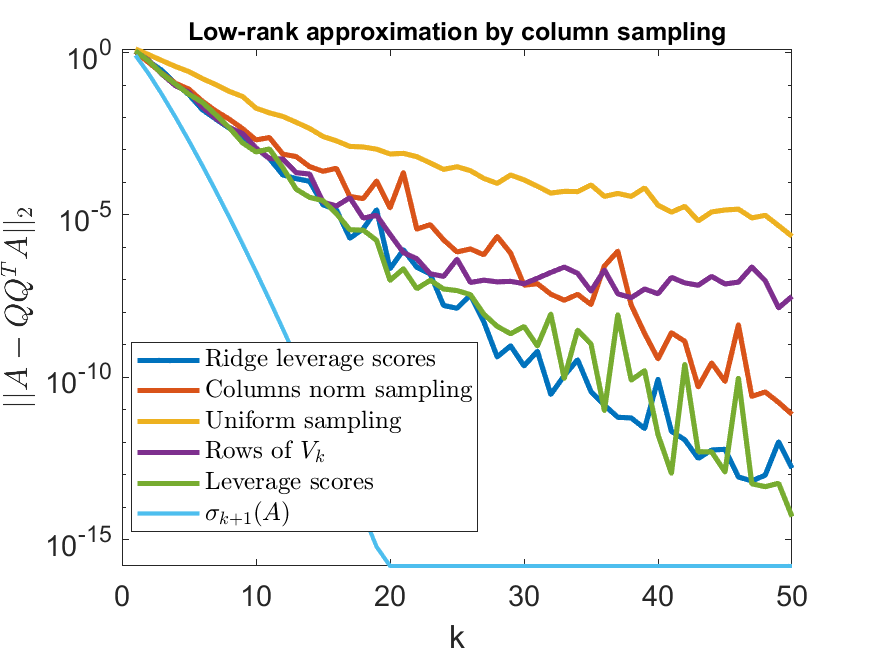
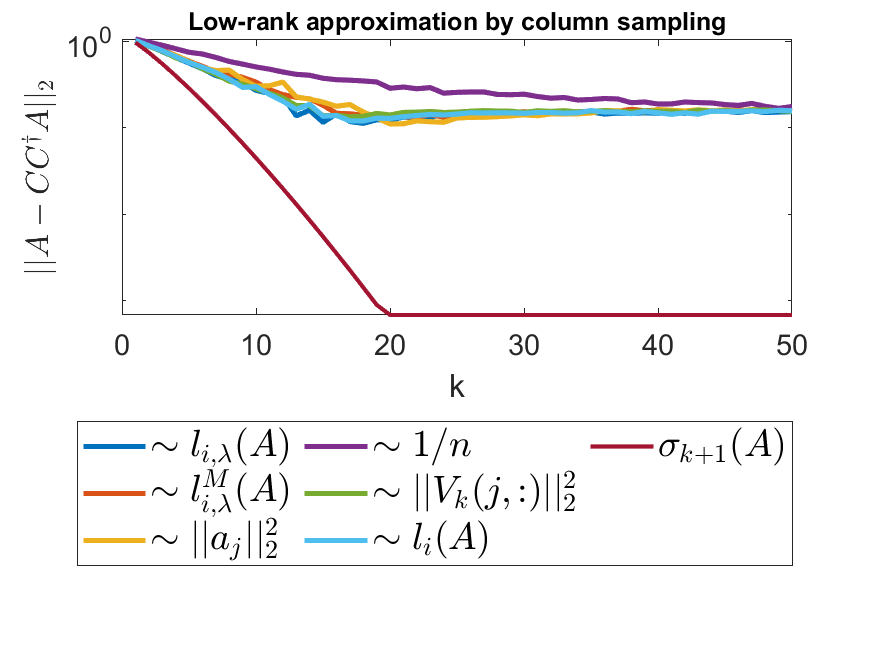
Code updates

diff --git a/run.m b/run.m
@@ -14,162 +14,81 @@ lambda = 1e-4;
 gold_standards = diag(S);
 ranks = 50;
 
-%% leverage scores
-errors_leverage = zeros(num_avg, ranks);  % initialize errors vector
-errors_leverage_pseudo= zeros(num_avg, ranks);
+%% compute sampling probabilities
 
-% initialize scores
+% initialize classical leverage scores
 leverage_scores = zeros(n, 1);
 for k=1:n
    leverage_scores(k) = A(:, k)' * pinv(A*A') * A(:, k);
 end
 leverage_scores = leverage_scores / sum(leverage_scores);
 
-% average over multiple runs
-for i=1:num_avg
-    % ranks from 1, ..., 50
-    for j=1:ranks
-       C = zeros(n, j);
-       for l=1:j
-           p = sampling(leverage_scores);  % sample from distribution
-           C(:, l) = A(:, p) / sqrt(j * leverage_scores(p));  % take column and rescale to have unbiased estimate
-       end
-       [Uc, ~, ~] = svd(C, "econ");  % economy SVD of C
-       Q1 = Uc(:, 1:j);  % take left principal subspace
-       errors_leverage(i, j) = norm(A-Q1*Q1'*A, 2);  % compute error in 2-norm
-       errors_leverage_pseudo(i, j) = norm(A-C*pinv(C)*A, 2);
-    end
-end
-
-mean_errors_leverage = mean(errors_leverage);
-mean_errors_leverage_pseudo = mean(errors_leverage_pseudo);
-std_errors_leverage = std(errors_leverage) / sqrt(num_avg);
-std_errors_leverage_pseudo = std(errors_leverage_pseudo) / sqrt(num_avg);
-
-%% ridge leverage scores
-errors_ridge = zeros(num_avg, ranks);  % initialize errors vector
-errors_ridge_pseudo= zeros(num_avg, ranks);
-
-% initialize scores
+% initialize ridge leverage scores (true, not estimates from random subset)
 ridge_scores = zeros(n, 1);
 for k=1:n
    ridge_scores(k) = V(k, :) * diag(diag(S).^2 ./ (diag(S).^2 + lambda^2)) * V(k, :)';
 end
 ridge_scores = ridge_scores / sum(ridge_scores);
 
-% average over multiple runs
-for i=1:num_avg
-    % ranks from 1, ..., 50
-    for j=1:ranks
-       C = zeros(n, j);
-       for l=1:j
-           p = sampling(ridge_scores);  % sample from distribution
-           C(:, l) = A(:, p) / sqrt(j * ridge_scores(p));  % take column and rescale to have unbiased estimate
-       end
-       [Uc, ~, ~] = svd(C, "econ");  % economy SVD of C
-       Q1 = Uc(:, 1:j);  % take left principal subspace
-       errors_ridge(i, j) = norm(A-Q1*Q1'*A, 2);  % compute error in 2-norm
-       errors_ridge_pseudo(i, j) = norm(A-C*pinv(C)*A, 2);
-    end
+% initialize upper estimates for ridge leverage scores
+range = randsample(n, n/2);
+M = A(:, range);
+estimated_ridge_scores = zeros(n, 1);
+for k=1:n
+   estimated_ridge_scores(k) = A(:, k)' * pinv(M * M' + lambda.^2 * eye(n)) * A(:, k);
 end
+estimated_ridge_scores = estimated_ridge_scores / sum(estimated_ridge_scores);
 
-mean_errors_ridge = mean(errors_ridge);
-mean_errors_ridge_pseudo = mean(errors_ridge_pseudo);
-std_errors_ridge = std(errors_ridge) / sqrt(num_avg);
-std_errors_ridge_pseudo = std(errors_ridge_pseudo) / sqrt(num_avg);
-
-%% uniform sampling
-errors_uniform = zeros(num_avg, ranks);  % initialize errors vector
-errors_uniform_pseudo = zeros(num_avg, ranks);  
-
-% initialize scores
+% initialize uniform scores
 uniform_scores = 1/n * ones(n, 1);
 
-% average over multiple runs
-for i=1:num_avg
-    % ranks from 1, ..., 50
-    for j=1:ranks
-       C = zeros(n, 1);
-       for l=1:j
-           p = sampling(uniform_scores);  % sample from distribution 
-           C(:, l) = A(:, p) / sqrt(j * uniform_scores(p));  % take column and rescale to have unbiased estimate
-       end
-       [Uc, ~, ~] = svd(C, "econ");  % economy SVD of C
-       Q1 = Uc(:, 1:j);  % take left principal subspace
-       errors_uniform(i, j) = norm(A-Q1*Q1'*A, 2);  % compute error in 2-norm
-       errors_uniform_pseudo(i, j) = norm(A-C*pinv(C)*A, 2);
-    end
-end
-
-mean_errors_uniform = mean(errors_uniform);
-mean_errors_uniform_pseudo = mean(errors_uniform_pseudo);
-std_errors_uniform = std(errors_uniform) / sqrt(num_avg);
-std_errors_uniform_pseudo = std(errors_uniform_pseudo) / sqrt(num_avg);
-
-
-%% sample proportionally to the norm of the columns of A
-errors_columns = zeros(num_avg, ranks);  % initialize errors vector
-errors_columns_pseudo = zeros(num_avg, ranks);
-
-% initialize scores
+% initialize column scores
 columns_scores = zeros(n, 1);
 for k=1:n
    column_scores(k) = (norm(A(:, k)) / norm(A, "fro"))^2;
 end
 
+%% true classical leverage scores
+% initialize errors vectors for all sampling probabilities
+errors_leverage = zeros(num_avg, ranks);
+errors_ridge = zeros(num_avg, ranks);
+errors_ridge_estimates = zeros(num_avg, ranks); 
+errors_uniform = zeros(num_avg, ranks);
+errors_columns = zeros(num_avg, ranks);
+errors_row = zeros(num_avg, ranks);
+
 % average over multiple runs
 for i=1:num_avg
     % ranks from 1, ..., 50
     for j=1:ranks
-       C = zeros(n, j);
-       for l=1:j
-           p = sampling(column_scores);  % sample from distribution
-           C(:, l) = A(:, p) / sqrt(j * column_scores(p));  % take column and rescale to have unbiased estimate
-       end
-       [Uc, ~, ~] = svd(C, "econ");  % economy SVD of C
-       Q1 = Uc(:, 1:j);  % take left principal subspace
-       errors_columns(i, j) = norm(A-Q1*Q1'*A, 2);  % compute error in 2-norm
-       errors_columns_pseudo(i, j) = norm(A-C*pinv(C)*A, 2);
-    end
-end
-
-mean_errors_columns = mean(errors_columns);
-mean_errors_columns_pseudo = mean(errors_columns_pseudo);
-std_errors_columns = std(errors_columns) / sqrt(num_avg);
-std_errors_columns_pseudo = std(errors_columns_pseudo) / sqrt(num_avg);
-
-%% sample proportionally to the rows of V_k
-errors_row = zeros(num_avg, ranks);  % initialize error vector
-errors_row_pseudo = zeros(num_avg, ranks);
-
-for i=1:num_avg
-    for k=1:ranks
-        V_k = V(:, 1:k);
+        % compute error in 2-norm
+        errors_leverage(i, j) = RCCS(A, leverage_scores, j); 
+        errors_ridge(i, j) = RCCS(A, ridge_scores, j);
+        errors_ridge_estimates(i, j) = RCCS(A, estimated_ridge_scores, j);
+        errors_uniform(i, j) = RCCS(A, uniform_scores, j);
+        errors_columns(i, j) = RCCS(A, column_scores, j);
+        V_j = V(:, 1:j);
         row_scores = zeros(n, 1);
         for l=1:n
-            row_scores(l) = norm(V_k(l, :))^2 / k;
+            row_scores(l) = norm(V_j(l, :))^2 / k;
         end
-        C = zeros(n, k);
-        for j=1:k
-            p = sampling(row_scores);
-            C(:, j) = A(:, p) / sqrt(k*row_scores(p));
-        end
-        [U, Sigma, V_hat] = svd(C, "econ");
-        Q1 = U(:, 1:j);
-        errors_row(i, j) = norm(A-Q1*Q1'*A, 2);
-        errors_row_pseudo(i, j) = norm(A-C*pinv(C)*A, 2);
+        errors_row(i, j) = RCCS(A, row_scores / sum(row_scores), j);
     end
 end
 
+mean_errors_leverage = mean(errors_leverage);
+mean_errors_ridge = mean(errors_ridge);
+mean_errors_ridge_estimates = mean(errors_ridge_estimates);
+mean_errors_uniform = mean(errors_uniform);
+mean_errors_columns = mean(errors_columns);
 mean_errors_row = mean(errors_row);
-mean_errors_row_pseudo = mean(errors_row_pseudo);
-std_errors_row = std(errors_row) / sqrt(num_avg);
-std_errors_columns_row = std(errors_row_pseudo) / sqrt(num_avg);
 
 %% plot results
 fig = figure();
 x = (1:ranks);
 semilogy(x, mean_errors_ridge, 'LineWidth', 2.5);
+hold on
+semilogy(x, mean_errors_ridge_estimates, 'LineWidth', 2.5);
 hold on
 semilogy(x, mean_errors_columns, 'LineWidth', 2.5);
 hold on
@@ -181,36 +100,13 @@ semilogy(x, mean_errors_leverage, 'LineWidth', 2.5);
 hold on
 semilogy(x, gold_standards(2:ranks+1), 'LineWidth', 2.0);
 xlabel("k", 'FontSize', 12);
-ylabel("$\vert \vert A - Q Q^T A \vert \vert_2$", 'interpreter', 'latex', 'FontSize', 12);
-ax = gca;
-ax.XAxis.FontSize = 14;
-ax.YAxis.FontSize = 14;
-title("Low-rank approximation by column sampling", 'FontSize', 12);
-legend("Ridge leverage scores", "Columns norm sampling", "Uniform sampling", "Rows of $V_k$", "Leverage scores", "$\sigma_{k+1}(A)$", 'interpreter', 'latex');
-legend('Location', 'best', 'FontSize', 12, 'NumColumns', 1);
-saveas(fig, "figures/plot", "epsc");
-saveas(fig, "figures/plot", "png");
-
-fig2 = figure();
-x = (1:ranks);
-semilogy(x, mean_errors_ridge_pseudo, 'LineWidth', 2.5);
-hold on
-semilogy(x, mean_errors_columns_pseudo, 'LineWidth', 2.5);
-hold on
-semilogy(x, mean_errors_uniform_pseudo, 'LineWidth', 2.5);
-hold on
-semilogy(x, mean_errors_row_pseudo, 'LineWidth', 2.5);
-hold on
-semilogy(x, mean_errors_leverage_pseudo, 'LineWidth', 2.5);
-hold on
-semilogy(x, gold_standards(2:ranks+1), 'LineWidth', 2.0);
-xlabel("k", 'FontSize', 12);
 ylabel("$\vert \vert A - C C^\dagger A \vert \vert_2$", 'interpreter', 'latex', 'FontSize', 12);
 ax = gca;
 ax.XAxis.FontSize = 14;
 ax.YAxis.FontSize = 14;
 title("Low-rank approximation by column sampling", 'FontSize', 12);
-legend("Ridge leverage scores", "Columns norm sampling", "Uniform sampling", "Rows of $V_k$", "Leverage scores", "$\sigma_{k+1}(A)$", 'interpreter', 'latex');
-legend('Location', 'best', 'FontSize', 12, 'NumColumns', 1);
-saveas(fig2, "figures/plot2_lambda", "epsc");
-saveas(fig2, "figures/plot2_lambda", "png");
+legend("$\sim l_{i, \lambda}(A)$", "$\sim l_{i, \lambda}^{M}(A)$", "$\sim \vert \vert a_j \vert \vert_2^2$", ...
+    "$\sim 1/n$", "$\sim \vert \vert V_k(j, :) \vert \vert_2^2$", ...
+    "$\sim l_i(A)$", "$\sigma_{k+1}(A)$", 'interpreter', 'latex'); 
+legend('Location', 'southoutside', 'FontSize', 18, 'NumColumns', 3);
+saveas(fig, "plot", "png");

diff --git a/RCCS.m b/RCCS.m
@@ -1,0 +1,10 @@
+function error = RCCS(A, scores, j)
+   n = size(A, 1);
+   C = zeros(n, j);
+   for l=1:j
+       p = sampling(scores);  % sample from distribution
+       C(:, l) = A(:, p) / sqrt(j * scores(p));  % take column and rescale to have unbiased estimate
+   end
+   error = norm(A-C*pinv(C)*A, 2);
+end
+
